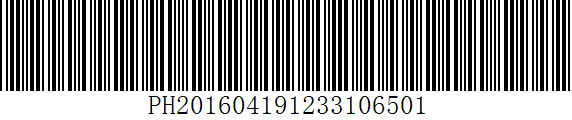
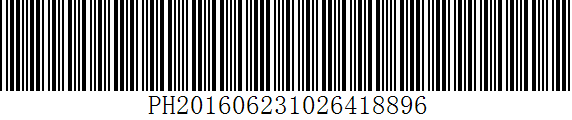
console

diff --git a/WebDemo/Controllers/HomeController.cs b/WebDemo/Controllers/HomeController.cs
@@ -1,6 +1,7 @@
 using System;
 using System.Collections.Generic;
 using System.Drawing;
+using System.IO;
 using System.Linq;
 using System.Web;
 using System.Web.Mvc;
@@ -13,10 +14,11 @@ namespace WebDemo.Controllers
         public ActionResult Index()
         {
             BarCodeEncoder _Code = new BarCodeEncoder();
-            _Code.ValueFont = new Font("宋体", 20);
-            System.Drawing.Bitmap imgTemp = _Code.GetCodeImage("PH201604191233106501", BarCodeEncoder.Encode.Code128B);
+            _Code.ValueFont = new Font("宋体", 100);
+            System.Drawing.Bitmap imgTemp = _Code.GetCodeImage("PH201606231026418896", BarCodeEncoder.Encode.Code128B);
             var imgPath = System.AppDomain.CurrentDomain.BaseDirectory + "\\" + "BarCode.gif";
             imgTemp.Save(imgPath, System.Drawing.Imaging.ImageFormat.Gif);
+
             return View();
         }
 
@@ -31,11 +33,21 @@ namespace WebDemo.Controllers
             _Code39.ViewFont = new Font("宋体", 20);
 
 
-            System.Drawing.Image _CodeImage = _Code39.GetCodeImage("PH201604191233106501", Code39.Code39Model.Code39Normal, true);
+            System.Drawing.Image _CodeImage = _Code39.GetCodeImage("PH201606231026418896", Code39.Code39Model.Code39Normal, true);
 
             System.IO.MemoryStream _Stream = new System.IO.MemoryStream();
             _CodeImage.Save(_Stream, System.Drawing.Imaging.ImageFormat.Jpeg);
             _CodeImage.Save(Server.MapPath(@"\1.jpeg"));
+
+            using (FileStream localFile = new FileStream(Server.MapPath(@"\streamTest.jpeg"),
+           FileMode.OpenOrCreate))
+            {
+                //ms.ToArray()转换为字节数组就是想要的图片源字节
+
+                localFile.Write(_Stream.ToArray(), 0, (int)_Stream.Length);
+            }
+
+
             //Response.ContentType = "image/jpeg";
             //Response.Clear();
             //Response.BufferOutput = true;
@@ -45,6 +57,7 @@ namespace WebDemo.Controllers
             ViewBag.Message = "Your application description page.";
             return View();
         }
+
 
         public ActionResult Contact()
         {

diff --git a/ConsoleDemo/Properties/AssemblyInfo.cs b/ConsoleDemo/Properties/AssemblyInfo.cs
@@ -1,0 +1,36 @@
+using System.Reflection;
+using System.Runtime.CompilerServices;
+using System.Runtime.InteropServices;
+
+// 有关程序集的常规信息通过以下
+// 特性集控制。更改这些特性值可修改
+// 与程序集关联的信息。
+[assembly: AssemblyTitle("ConsoleDemo")]
+[assembly: AssemblyDescription("")]
+[assembly: AssemblyConfiguration("")]
+[assembly: AssemblyCompany("")]
+[assembly: AssemblyProduct("ConsoleDemo")]
+[assembly: AssemblyCopyright("Copyright ©  2016")]
+[assembly: AssemblyTrademark("")]
+[assembly: AssemblyCulture("")]
+
+// 将 ComVisible 设置为 false 使此程序集中的类型
+// 对 COM 组件不可见。  如果需要从 COM 访问此程序集中的类型，
+// 则将该类型上的 ComVisible 特性设置为 true。
+[assembly: ComVisible(false)]
+
+// 如果此项目向 COM 公开，则下列 GUID 用于类型库的 ID
+[assembly: Guid("72fe4d5f-3c4b-43ad-9eb2-c603c3f9e689")]
+
+// 程序集的版本信息由下面四个值组成: 
+//
+//      主版本
+//      次版本 
+//      生成号
+//      修订号
+//
+// 可以指定所有这些值，也可以使用“生成号”和“修订号”的默认值，
+// 方法是按如下所示使用“*”: 
+// [assembly: AssemblyVersion("1.0.*")]
+[assembly: AssemblyVersion("1.0.0.0")]
+[assembly: AssemblyFileVersion("1.0.0.0")]

diff --git a/WebDemo/Controllers/DemoController.cs b/WebDemo/Controllers/DemoController.cs
@@ -1,0 +1,31 @@
+using System;
+using System.Collections.Generic;
+using System.Linq;
+using System.Net;
+using System.Threading.Tasks;
+using System.Web;
+using System.Web.Mvc;
+
+namespace WebDemo.Controllers
+{
+    public class DemoController : Controller
+    {
+        //
+        // GET: /Demo/
+        public ActionResult Index()
+        {
+            IPAddress[] ipAddresses;
+            Task<IPAddress[]> ipAddressesPromise = Dns.GetHostAddressesAsync("oreilly.com");
+            ipAddressesPromise.ContinueWith(_ =>
+            {
+                ipAddresses = ipAddressesPromise.Result;
+            });
+            return View();
+        }
+
+
+	}
+
+
+
+}

diff --git a/ConsoleDemo/Program.cs b/ConsoleDemo/Program.cs
@@ -1,0 +1,26 @@
+using ConsoleDemo.Demo;
+using System;
+using System.Collections.Generic;
+using System.Linq;
+using System.Text;
+using System.Threading.Tasks;
+
+namespace ConsoleDemo
+{
+    class Program
+    {
+        static void Main(string[] args)
+        {
+            List<int> ints = new List<int>() { 0,1,2};
+            IEnumerable<string> strs = ints.Select(i =>
+            Task.Run(async () => await Int2StringAsync(i)).Result);
+
+            Console.WriteLine(strs.FirstOrDefault());
+        }
+
+        static async Task<string> Int2StringAsync(int i)
+        {
+            return await Task.Run<string>(() => i.ToString());
+        }
+    }
+}

diff --git a/ConsoleDemo/Demo/AsyncDemo.cs b/ConsoleDemo/Demo/AsyncDemo.cs
@@ -1,0 +1,19 @@
+using System;
+using System.Collections.Generic;
+using System.Linq;
+using System.Text;
+using System.Threading.Tasks;
+
+namespace ConsoleDemo.Demo
+{
+    public class AsyncDemo
+    {
+
+        //异步将int转换成string
+        static async Task<string> Int2StringAsync(int i)
+        {
+            return await Task.Run<string>(() => i.ToString());
+        }
+
+    }
+}
